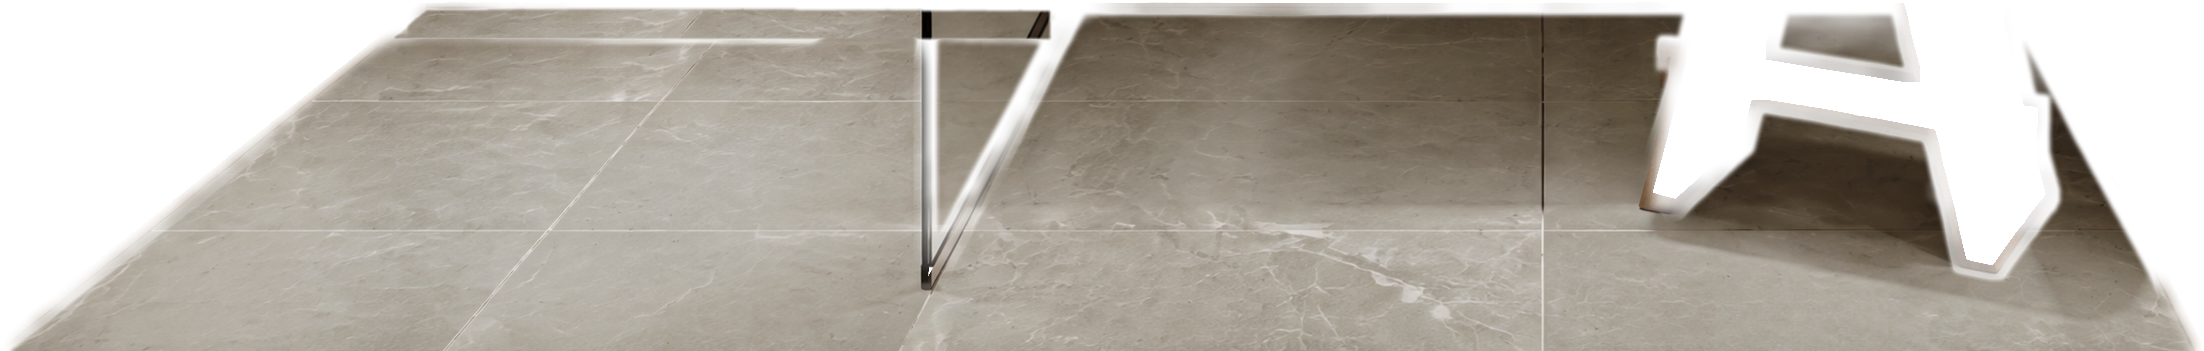
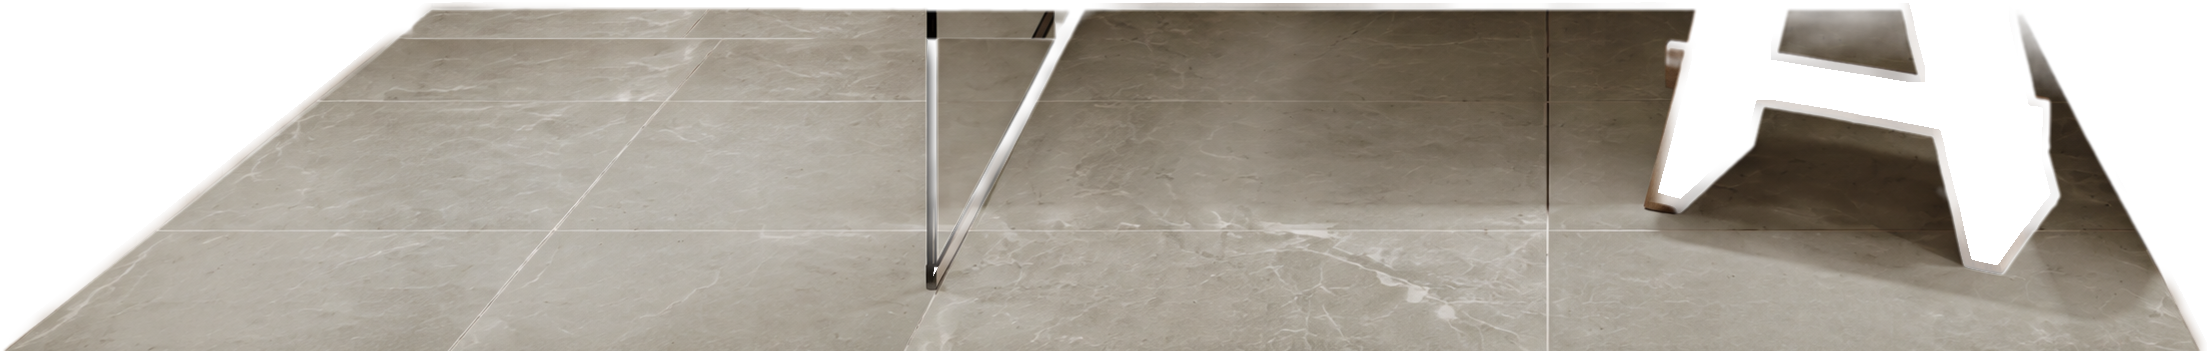
Dlažba až po stoličku, bez svetlého lemu
- vrstva dlažby siaha po okraj zeleného kľúča: pri stoličke mäkký okraj
  z rozdielu končil pár px pred ňou a na tmavej dlažbe presvitala pôvodná
  svetlá ako lem, pod sedadlom ako svetlejšie miesto
- PRAVIDLA, CLAUDE.md

diff --git a/demo/index.html b/demo/index.html
@@ -120,7 +120,7 @@
 
 </div>
 
-<script>/*DATA*/window.KUPELNA = {"sirka":3312,"vyska":2484,"povodny":"img/povodny.jpg","model":"gpt-image-2-5-flare-image-to-image","rozlisenie":"4K","kreditovZaObrazok":16,"kategorie":[{"id":"obklad","nazov":"Obklad stien","typ":"podklad","z":0,"moznosti":[{"id":"povodny","nazov":"Pôvodný obklad","kratko":"Pôvodný obklad","detail":"Svetlý kameň · podľa vizualizácie ST1","nahlad":"img/nahlad-obklad-povodny.jpg"},{"id":"obklad-calacatta","nazov":"Florim I CLASSICI Calacatta Gold","kratko":"Calacatta Gold","detail":"Florim I Classici · gres 1200 × 2400 mm","nahlad":"img/ref-obklad-calacatta-0.jpg","obrazok":"img/obklad-calacatta.jpg"},{"id":"obklad-graphit","nazov":"Florim STONE LIFE Graphit","kratko":"Stone Life Graphit","detail":"Florim Stone Life · gres 1200 × 2400 mm","nahlad":"img/ref-obklad-graphit-0.jpg","obrazok":"img/obklad-graphit.jpg"},{"id":"obklad-travertine","nazov":"Florim AUTHENTIC LUXE Gold Travertine","kratko":"Gold Travertine","detail":"Florim Authentic Luxe · gres 1200 × 2400 mm","nahlad":"img/ref-obklad-travertine-0.jpg","obrazok":"img/obklad-travertine.jpg"}]},{"id":"dlazba","nazov":"Dlažba","typ":"plocha","z":1,"moznosti":[{"id":"povodny","nazov":"Pôvodná dlažba","kratko":"Pôvodná dlažba","detail":"Svetlý kameň · podľa vizualizácie ST1","nahlad":"img/nahlad-dlazba-povodny.jpg","vrstvy":{"*":[{"src":"img/dlazba-povodny-0.png","x":104,"y":2133,"w":2214,"h":351}]}},{"id":"dlazba-graphite","nazov":"Florim STONE LIFE Graphite 600x600","kratko":"Stone Life Graphite","detail":"Florim Stone Life · mat 600 × 600 mm","nahlad":"img/ref-dlazba-graphite-0.jpg","vrstvy":{"*":[{"src":"img/dlazba-graphite-0.png","x":104,"y":2133,"w":2214,"h":351}]}},{"id":"dlazba-amani","nazov":"Florim TIMELESS Amani Grey 600x600","kratko":"Timeless Amani Grey","detail":"Florim Timeless · mat 600 × 600 mm","nahlad":"img/ref-dlazba-amani-0.jpg","vrstvy":{"*":[{"src":"img/dlazba-amani-0.png","x":114,"y":2133,"w":2204,"h":351}]}}]},{"id":"baterie","nazov":"Batérie","typ":"objekt","z":3,"moznosti":[{"id":"povodny","nazov":"Chróm (pôvodné)","kratko":"Chróm (pôvodné)","detail":"Hansgrohe chróm · podľa vizualizácie ST1","nahlad":"img/nahlad-baterie-povodny.jpg"},{"id":"baterie-black","nazov":"Hansgrohe Black matt (Pulsify S Showerpipe 260, Tecturis S 240 Fine, Ecostat Element)","kratko":"Black matt","detail":"Hansgrohe 24237670 · 73372670 · 13347670","nahlad":"img/ref-baterie-black-0.jpg","vrstvy":{"povodny":[{"src":"img/baterie-black--povodny-0.png","x":494,"y":395,"w":600,"h":1494},{"src":"img/baterie-black--povodny-1.png","x":1538,"y":1314,"w":235,"h":277},{"src":"img/baterie-black--povodny-2.png","x":2217,"y":1314,"w":500,"h":774},{"src":"img/baterie-black--povodny-3.png","x":1571,"y":1643,"w":169,"h":308},{"src":"img/baterie-black--povodny-4.png","x":2929,"y":1848,"w":202,"h":228}],"obklad-calacatta":[{"src":"img/baterie-black--obklad-calacatta-0.png","x":494,"y":395,"w":600,"h":1494},{"src":"img/baterie-black--obklad-calacatta-1.png","x":1538,"y":1314,"w":235,"h":277},{"src":"img/baterie-black--obklad-calacatta-2.png","x":2217,"y":1314,"w":500,"h":774},{"src":"img/baterie-black--obklad-calacatta-3.png","x":1571,"y":1643,"w":169,"h":308},{"src":"img/baterie-black--obklad-calacatta-4.png","x":2929,"y":1848,"w":202,"h":228}],"obklad-graphit":[{"src":"img/baterie-black--obklad-graphit-0.png","x":494,"y":395,"w":600,"h":1494},{"src":"img/baterie-black--obklad-graphit-1.png","x":1538,"y":1314,"w":235,"h":277},{"src":"img/baterie-black--obklad-graphit-2.png","x":2217,"y":1314,"w":500,"h":774},{"src":"img/baterie-black--obklad-graphit-3.png","x":1571,"y":1643,"w":169,"h":308},{"src":"img/baterie-black--obklad-graphit-4.png","x":2929,"y":1848,"w":202,"h":228}],"obklad-travertine":[{"src":"img/baterie-black--obklad-travertine-0.png","x":494,"y":395,"w":600,"h":1494},{"src":"img/baterie-black--obklad-travertine-1.png","x":1538,"y":1314,"w":235,"h":277},{"src":"img/baterie-black--obklad-travertine-2.png","x":2217,"y":1314,"w":500,"h":774},{"src":"img/baterie-black--obklad-travertine-3.png","x":1571,"y":1643,"w":169,"h":308},{"src":"img/baterie-black--obklad-travertine-4.png","x":2929,"y":1848,"w":202,"h":228}]}},{"id":"baterie-bronze","nazov":"Hansgrohe Brushed bronze (Pulsify S Showerpipe 260, Tecturis S 240 Fine, Ecostat Element)","kratko":"Brushed bronze","detail":"Hansgrohe 24237140 · 73372140 · 13347140","nahlad":"img/ref-baterie-bronze-0.jpg","vrstvy":{"povodny":[{"src":"img/baterie-bronze--povodny-0.png","x":494,"y":395,"w":600,"h":1494},{"src":"img/baterie-bronze--povodny-1.png","x":1538,"y":1314,"w":235,"h":277},{"src":"img/baterie-bronze--povodny-2.png","x":2217,"y":1314,"w":500,"h":774},{"src":"img/baterie-bronze--povodny-3.png","x":1571,"y":1643,"w":169,"h":308},{"src":"img/baterie-bronze--povodny-4.png","x":2929,"y":1848,"w":202,"h":228}],"obklad-calacatta":[{"src":"img/baterie-bronze--obklad-calacatta-0.png","x":494,"y":395,"w":600,"h":1494},{"src":"img/baterie-bronze--obklad-calacatta-1.png","x":1538,"y":1314,"w":235,"h":277},{"src":"img/baterie-bronze--obklad-calacatta-2.png","x":2217,"y":1314,"w":500,"h":774},{"src":"img/baterie-bronze--obklad-calacatta-3.png","x":1571,"y":1643,"w":169,"h":308},{"src":"img/baterie-bronze--obklad-calacatta-4.png","x":2929,"y":1848,"w":202,"h":228}],"obklad-graphit":[{"src":"img/baterie-bronze--obklad-graphit-0.png","x":494,"y":395,"w":600,"h":1494},{"src":"img/baterie-bronze--obklad-graphit-1.png","x":1538,"y":1314,"w":235,"h":277},{"src":"img/baterie-bronze--obklad-graphit-2.png","x":2217,"y":1314,"w":500,"h":774},{"src":"img/baterie-bronze--obklad-graphit-3.png","x":1571,"y":1643,"w":169,"h":308},{"src":"img/baterie-bronze--obklad-graphit-4.png","x":2929,"y":1848,"w":202,"h":228}],"obklad-travertine":[{"src":"img/baterie-bronze--obklad-travertine-0.png","x":494,"y":395,"w":600,"h":1494},{"src":"img/baterie-bronze--obklad-travertine-1.png","x":1538,"y":1314,"w":235,"h":277},{"src":"img/baterie-bronze--obklad-travertine-2.png","x":2217,"y":1314,"w":500,"h":774},{"src":"img/baterie-bronze--obklad-travertine-3.png","x":1571,"y":1643,"w":169,"h":308},{"src":"img/baterie-bronze--obklad-travertine-4.png","x":2929,"y":1848,"w":202,"h":228}]}}]},{"id":"umyvadlo","nazov":"Umývadlo","typ":"objekt","z":4,"moznosti":[{"id":"povodny","nazov":"Pôvodné obdĺžnikové","kratko":"Pôvodné obdĺžnikové","detail":"Na dosku · podľa vizualizácie ST1","nahlad":"img/nahlad-umyvadlo-povodny.jpg"},{"id":"umyvadlo-savoy","nazov":"Laufen Savoy 550x380 oválne","kratko":"Savoy oválne","detail":"Laufen H8129440001121 · 550 × 380 mm","nahlad":"img/ref-umyvadlo-savoy-0.jpg","vrstvy":{"povodny":[{"src":"img/umyvadlo-savoy--povodny-0.png","x":1322,"y":1364,"w":700,"h":376}],"obklad-calacatta":[{"src":"img/umyvadlo-savoy--obklad-calacatta-0.png","x":1322,"y":1364,"w":700,"h":376}],"obklad-graphit":[{"src":"img/umyvadlo-savoy--obklad-graphit-0.png","x":1322,"y":1364,"w":700,"h":376}],"obklad-travertine":[{"src":"img/umyvadlo-savoy--obklad-travertine-0.png","x":1322,"y":1364,"w":700,"h":376}]}},{"id":"umyvadlo-okruhle","nazov":"Laufen living SQ 380x380 okrúhle","kratko":"living SQ okrúhle","detail":"Laufen H8114350001121 · Ø 380 mm","nahlad":"img/ref-umyvadlo-okruhle-0.jpg","vrstvy":{"povodny":[{"src":"img/umyvadlo-okruhle--povodny-0.png","x":1322,"y":1364,"w":700,"h":376}],"obklad-calacatta":[{"src":"img/umyvadlo-okruhle--obklad-calacatta-0.png","x":1322,"y":1364,"w":700,"h":376}],"obklad-graphit":[{"src":"img/umyvadlo-okruhle--obklad-graphit-0.png","x":1322,"y":1364,"w":700,"h":376}],"obklad-travertine":[{"src":"img/umyvadlo-okruhle--obklad-travertine-0.png","x":1322,"y":1364,"w":700,"h":376}]}}]},{"id":"zlab","nazov":"Sprchový žľab","typ":"objekt","z":2,"moznosti":[{"id":"povodny","nazov":"FlowLine Zero Nerez","kratko":"FlowLine Zero Nerez","detail":"Kaldewei FlowLine Zero · nerez","nahlad":"img/nahlad-zlab-povodny.jpg","vrstvy":{"*":[{"src":"img/zlab-povodny-0.png","x":507,"y":2139,"w":661,"h":38}]}},{"id":"zlab-grafit","nazov":"Kaldewei FlowLine Zero Grafit","kratko":"FlowLine Zero Grafit","detail":"Kaldewei FlowLine Zero · grafit","nahlad":"img/ref-zlab-grafit-0.jpg","vrstvy":{"*":[{"src":"img/zlab-grafit-0.png","x":494,"y":2130,"w":676,"h":48}]}}]}]};/*/DATA*/</script>
+<script>/*DATA*/window.KUPELNA = {"sirka":3312,"vyska":2484,"povodny":"img/povodny.jpg","model":"gpt-image-2-5-flare-image-to-image","rozlisenie":"4K","kreditovZaObrazok":16,"kategorie":[{"id":"obklad","nazov":"Obklad stien","typ":"podklad","z":0,"moznosti":[{"id":"povodny","nazov":"Pôvodný obklad","kratko":"Pôvodný obklad","detail":"Svetlý kameň · podľa vizualizácie ST1","nahlad":"img/nahlad-obklad-povodny.jpg"},{"id":"obklad-calacatta","nazov":"Florim I CLASSICI Calacatta Gold","kratko":"Calacatta Gold","detail":"Florim I Classici · gres 1200 × 2400 mm","nahlad":"img/ref-obklad-calacatta-0.jpg","obrazok":"img/obklad-calacatta.jpg"},{"id":"obklad-graphit","nazov":"Florim STONE LIFE Graphit","kratko":"Stone Life Graphit","detail":"Florim Stone Life · gres 1200 × 2400 mm","nahlad":"img/ref-obklad-graphit-0.jpg","obrazok":"img/obklad-graphit.jpg"},{"id":"obklad-travertine","nazov":"Florim AUTHENTIC LUXE Gold Travertine","kratko":"Gold Travertine","detail":"Florim Authentic Luxe · gres 1200 × 2400 mm","nahlad":"img/ref-obklad-travertine-0.jpg","obrazok":"img/obklad-travertine.jpg"}]},{"id":"dlazba","nazov":"Dlažba","typ":"plocha","z":1,"moznosti":[{"id":"povodny","nazov":"Pôvodná dlažba","kratko":"Pôvodná dlažba","detail":"Svetlý kameň · podľa vizualizácie ST1","nahlad":"img/nahlad-dlazba-povodny.jpg","vrstvy":{"*":[{"src":"img/dlazba-povodny-0.png","x":104,"y":2133,"w":2214,"h":351}]}},{"id":"dlazba-graphite","nazov":"Florim STONE LIFE Graphite 600x600","kratko":"Stone Life Graphite","detail":"Florim Stone Life · mat 600 × 600 mm","nahlad":"img/ref-dlazba-graphite-0.jpg","vrstvy":{"*":[{"src":"img/dlazba-graphite-0.png","x":104,"y":2133,"w":2214,"h":351}]}},{"id":"dlazba-amani","nazov":"Florim TIMELESS Amani Grey 600x600","kratko":"Timeless Amani Grey","detail":"Florim Timeless · mat 600 × 600 mm","nahlad":"img/ref-dlazba-amani-0.jpg","vrstvy":{"*":[{"src":"img/dlazba-amani-0.png","x":109,"y":2133,"w":2209,"h":351}]}}]},{"id":"baterie","nazov":"Batérie","typ":"objekt","z":3,"moznosti":[{"id":"povodny","nazov":"Chróm (pôvodné)","kratko":"Chróm (pôvodné)","detail":"Hansgrohe chróm · podľa vizualizácie ST1","nahlad":"img/nahlad-baterie-povodny.jpg"},{"id":"baterie-black","nazov":"Hansgrohe Black matt (Pulsify S Showerpipe 260, Tecturis S 240 Fine, Ecostat Element)","kratko":"Black matt","detail":"Hansgrohe 24237670 · 73372670 · 13347670","nahlad":"img/ref-baterie-black-0.jpg","vrstvy":{"povodny":[{"src":"img/baterie-black--povodny-0.png","x":494,"y":395,"w":600,"h":1494},{"src":"img/baterie-black--povodny-1.png","x":1538,"y":1314,"w":235,"h":277},{"src":"img/baterie-black--povodny-2.png","x":2217,"y":1314,"w":500,"h":774},{"src":"img/baterie-black--povodny-3.png","x":1571,"y":1643,"w":169,"h":308},{"src":"img/baterie-black--povodny-4.png","x":2929,"y":1848,"w":202,"h":228}],"obklad-calacatta":[{"src":"img/baterie-black--obklad-calacatta-0.png","x":494,"y":395,"w":600,"h":1494},{"src":"img/baterie-black--obklad-calacatta-1.png","x":1538,"y":1314,"w":235,"h":277},{"src":"img/baterie-black--obklad-calacatta-2.png","x":2217,"y":1314,"w":500,"h":774},{"src":"img/baterie-black--obklad-calacatta-3.png","x":1571,"y":1643,"w":169,"h":308},{"src":"img/baterie-black--obklad-calacatta-4.png","x":2929,"y":1848,"w":202,"h":228}],"obklad-graphit":[{"src":"img/baterie-black--obklad-graphit-0.png","x":494,"y":395,"w":600,"h":1494},{"src":"img/baterie-black--obklad-graphit-1.png","x":1538,"y":1314,"w":235,"h":277},{"src":"img/baterie-black--obklad-graphit-2.png","x":2217,"y":1314,"w":500,"h":774},{"src":"img/baterie-black--obklad-graphit-3.png","x":1571,"y":1643,"w":169,"h":308},{"src":"img/baterie-black--obklad-graphit-4.png","x":2929,"y":1848,"w":202,"h":228}],"obklad-travertine":[{"src":"img/baterie-black--obklad-travertine-0.png","x":494,"y":395,"w":600,"h":1494},{"src":"img/baterie-black--obklad-travertine-1.png","x":1538,"y":1314,"w":235,"h":277},{"src":"img/baterie-black--obklad-travertine-2.png","x":2217,"y":1314,"w":500,"h":774},{"src":"img/baterie-black--obklad-travertine-3.png","x":1571,"y":1643,"w":169,"h":308},{"src":"img/baterie-black--obklad-travertine-4.png","x":2929,"y":1848,"w":202,"h":228}]}},{"id":"baterie-bronze","nazov":"Hansgrohe Brushed bronze (Pulsify S Showerpipe 260, Tecturis S 240 Fine, Ecostat Element)","kratko":"Brushed bronze","detail":"Hansgrohe 24237140 · 73372140 · 13347140","nahlad":"img/ref-baterie-bronze-0.jpg","vrstvy":{"povodny":[{"src":"img/baterie-bronze--povodny-0.png","x":494,"y":395,"w":600,"h":1494},{"src":"img/baterie-bronze--povodny-1.png","x":1538,"y":1314,"w":235,"h":277},{"src":"img/baterie-bronze--povodny-2.png","x":2217,"y":1314,"w":500,"h":774},{"src":"img/baterie-bronze--povodny-3.png","x":1571,"y":1643,"w":169,"h":308},{"src":"img/baterie-bronze--povodny-4.png","x":2929,"y":1848,"w":202,"h":228}],"obklad-calacatta":[{"src":"img/baterie-bronze--obklad-calacatta-0.png","x":494,"y":395,"w":600,"h":1494},{"src":"img/baterie-bronze--obklad-calacatta-1.png","x":1538,"y":1314,"w":235,"h":277},{"src":"img/baterie-bronze--obklad-calacatta-2.png","x":2217,"y":1314,"w":500,"h":774},{"src":"img/baterie-bronze--obklad-calacatta-3.png","x":1571,"y":1643,"w":169,"h":308},{"src":"img/baterie-bronze--obklad-calacatta-4.png","x":2929,"y":1848,"w":202,"h":228}],"obklad-graphit":[{"src":"img/baterie-bronze--obklad-graphit-0.png","x":494,"y":395,"w":600,"h":1494},{"src":"img/baterie-bronze--obklad-graphit-1.png","x":1538,"y":1314,"w":235,"h":277},{"src":"img/baterie-bronze--obklad-graphit-2.png","x":2217,"y":1314,"w":500,"h":774},{"src":"img/baterie-bronze--obklad-graphit-3.png","x":1571,"y":1643,"w":169,"h":308},{"src":"img/baterie-bronze--obklad-graphit-4.png","x":2929,"y":1848,"w":202,"h":228}],"obklad-travertine":[{"src":"img/baterie-bronze--obklad-travertine-0.png","x":494,"y":395,"w":600,"h":1494},{"src":"img/baterie-bronze--obklad-travertine-1.png","x":1538,"y":1314,"w":235,"h":277},{"src":"img/baterie-bronze--obklad-travertine-2.png","x":2217,"y":1314,"w":500,"h":774},{"src":"img/baterie-bronze--obklad-travertine-3.png","x":1571,"y":1643,"w":169,"h":308},{"src":"img/baterie-bronze--obklad-travertine-4.png","x":2929,"y":1848,"w":202,"h":228}]}}]},{"id":"umyvadlo","nazov":"Umývadlo","typ":"objekt","z":4,"moznosti":[{"id":"povodny","nazov":"Pôvodné obdĺžnikové","kratko":"Pôvodné obdĺžnikové","detail":"Na dosku · podľa vizualizácie ST1","nahlad":"img/nahlad-umyvadlo-povodny.jpg"},{"id":"umyvadlo-savoy","nazov":"Laufen Savoy 550x380 oválne","kratko":"Savoy oválne","detail":"Laufen H8129440001121 · 550 × 380 mm","nahlad":"img/ref-umyvadlo-savoy-0.jpg","vrstvy":{"povodny":[{"src":"img/umyvadlo-savoy--povodny-0.png","x":1322,"y":1364,"w":700,"h":376}],"obklad-calacatta":[{"src":"img/umyvadlo-savoy--obklad-calacatta-0.png","x":1322,"y":1364,"w":700,"h":376}],"obklad-graphit":[{"src":"img/umyvadlo-savoy--obklad-graphit-0.png","x":1322,"y":1364,"w":700,"h":376}],"obklad-travertine":[{"src":"img/umyvadlo-savoy--obklad-travertine-0.png","x":1322,"y":1364,"w":700,"h":376}]}},{"id":"umyvadlo-okruhle","nazov":"Laufen living SQ 380x380 okrúhle","kratko":"living SQ okrúhle","detail":"Laufen H8114350001121 · Ø 380 mm","nahlad":"img/ref-umyvadlo-okruhle-0.jpg","vrstvy":{"povodny":[{"src":"img/umyvadlo-okruhle--povodny-0.png","x":1322,"y":1364,"w":700,"h":376}],"obklad-calacatta":[{"src":"img/umyvadlo-okruhle--obklad-calacatta-0.png","x":1322,"y":1364,"w":700,"h":376}],"obklad-graphit":[{"src":"img/umyvadlo-okruhle--obklad-graphit-0.png","x":1322,"y":1364,"w":700,"h":376}],"obklad-travertine":[{"src":"img/umyvadlo-okruhle--obklad-travertine-0.png","x":1322,"y":1364,"w":700,"h":376}]}}]},{"id":"zlab","nazov":"Sprchový žľab","typ":"objekt","z":2,"moznosti":[{"id":"povodny","nazov":"FlowLine Zero Nerez","kratko":"FlowLine Zero Nerez","detail":"Kaldewei FlowLine Zero · nerez","nahlad":"img/nahlad-zlab-povodny.jpg","vrstvy":{"*":[{"src":"img/zlab-povodny-0.png","x":507,"y":2139,"w":661,"h":38}]}},{"id":"zlab-grafit","nazov":"Kaldewei FlowLine Zero Grafit","kratko":"FlowLine Zero Grafit","detail":"Kaldewei FlowLine Zero · grafit","nahlad":"img/ref-zlab-grafit-0.jpg","vrstvy":{"*":[{"src":"img/zlab-grafit-0.png","x":494,"y":2130,"w":676,"h":48}]}}]}]};/*/DATA*/</script>
 <script>
 (function () {
   const D = window.KUPELNA;

diff --git a/CLAUDE.md b/CLAUDE.md
@@ -47,7 +47,7 @@ Pred každou generáciou a po nej postupovať podľa kontrolného zoznamu a zozn
 - Obklad nesmie meniť policu – Graphit raz „zapustil“ umývadlo do police a na ostatných umývadlách potom ostal obdĺžnikový obrys; prompt obkladov to teraz výslovne zakazuje. Pri problémoch s jedným obkladom stačí `-Ids obklad-x,*@obklad-x -Force`.
 - Bronzové batérie sú prefarbené čierne (`zVariantu`). Sprcha v ST1 je Pulsify S 260 chróm → čierna/bronz sa iba prefarbí. K batériám patrí aj sifón pod policou a krytka prepadu vane (vlastné obdĺžniky v `roi`), v katalógu nie sú, farba sa len zjednocuje s batériami: `baterie-black` = prefarbenie sifónu a prepadu na pomocnom `baterie-black-zaklad` (pôvodná generácia čiernych batérií, `pomocne` môžu mať `referencie`). Umývadlá majú v prompte rozmer voči pôvodnému Laufen living SQ 600×340 mm (bez toho majú všetky rovnakú šírku ako pôvodné).
 - `prazdne-baterie` (výsledok z 2026-10-13) má ešte chrómový sifón a prepad – pokus pregenerovať ho aj bez nich zlyhal (model nechal umývadlovú batériu aj sifón a zmazal len prepad), nepregenerovávať. Chrómová vzpera sklenenej zásteny ostáva zámerne (patrí k sklu, nie k Hansgrohe). Známe drobnosti: bronzový sifón je o niečo tenší ako čierny; pri čiernom vaňovom termostate na Graphite ostávajú slabé svetlé škvrny pri rozetách.
-- Dlažba: každá generácia dlažby prekreslí žľab (dlhší, cez pás podlahy pri stene) a grafitový žľab je širší ako pôvodný → `bezObjektov: ["zlab"]` + `pas` žľabu: vo vrstvách dlažby je pás od steny po prednú hranu žľabu celý dlažba (riadky spod neho posunuté nahor), každý žľab má vrstvu len s kovom (rozdiel voči podkladu s pásom vyplneným dlažbou), aj pôvodný (vrstva možnosti „pôvodný“). Maska dlažby len z rozdielu voči podkladu vynechala tieň pod policou (stará a nová dlažba tam majú podobný tón, presvitala pôvodná) → `kluc: "kluc-dlazba"` (podlaha natretá na zeleno) dáva vnútro plochy, rozdiel len okraje.
+- Dlažba: každá generácia dlažby prekreslí žľab (dlhší, cez pás podlahy pri stene) a grafitový žľab je širší ako pôvodný → `bezObjektov: ["zlab"]` + `pas` žľabu: vo vrstvách dlažby je pás od steny po prednú hranu žľabu celý dlažba (riadky spod neho posunuté nahor), každý žľab má vrstvu len s kovom (rozdiel voči podkladu s pásom vyplneným dlažbou), aj pôvodný (vrstva možnosti „pôvodný“). Maska dlažby len z rozdielu voči podkladu vynechala tieň pod policou (stará a nová dlažba tam majú podobný tón, presvitala pôvodná) → `kluc: "kluc-dlazba"` (podlaha natretá na zeleno) dáva vnútro plochy, rozdiel len okraje. Vrstva dlažby siaha aj po okraj kľúča: pri stoličke (v dlažbe aj v podklade rovnaká) mäkký okraj z rozdielu končil pár px pred ňou a na tmavej dlažbe presvitala pôvodná svetlá ako lem.
 - Doplnky na polici (váza, difuzér, mydlo, podnos) každá generácia obkladu prekreslí a zdeformuje → `doplnky` vo `varianty.json`: AI ich z každého obkladu len odstráni (`prazdne-doplnky@<obklad>`) a `zostav` vloží pôvodné (rozdiel voči `prazdne-doplnky`, obrysy skla z `kluc-doplnky`), prefarbené pixel po pixeli z prázdneho podkladu na prázdny obklad; umývadlá (`bezDoplnkov`) túto oblasť nechajú pozadiu. Vloženie + dočistenie okolia cez AI (ako pri batériách) tu nefungovalo: dokresľovala druhý podnos a vetvičku.
 - Umývadlová batéria má smerovať výtokom k divákovi (ako pôvodná chrómová); podľa produktovej fotky ju model otočí bokom. `baterie-black` = otočenie na pomocnom `baterie-black-sifon` (prefarbený sifón) ← `baterie-black-zaklad`. `stlpec` pri umývadle vyreže batériu nad okrajom misy (misa je navrchu, batéria za ňou).
 - Veľkosť umývadlovej batérie = pôvodná: model nakreslil Tecturis S 240 Fine ~1,5× väčšiu (výška aj hrúbka tela) → `mierka` pri `baterie-black`/`baterie-bronze` ju pri načítaní variantu aj `@obklad` výsledkov zmenší 0,67× okolo bodu na polici a posunie na miesto pôvodnej (`zostav` aj vstupy `generuj`, bez generovania). Uvoľnená stena = `prazdne-baterie` prefarbené na stenu obkladu okolo (podklad obkladu má pôvodnú batériu o pár px inde); od riadku `okraj` stojí pred batériou zadná hrana misy (zelený kľúč umývadla je ~13 px vyššie). `@obklad` výsledky vygenerované zo vstupu, ktorý už mal zmenšenú batériu, majú vo `vysledky.json` `zmensene: true` (zapíše `generuj`) a `zostav` ich druhýkrát nezmenšuje (inak ostane svetlý obrys batérie s malou čiernou škvrnou). Namiesto toho `Set-ScaledCleanup`: batéria sa vezme zo vstupu (správna veľkosť, okraje prefarbené na obklad) a kde ju model nakreslil väčšiu (Graphit, ~1,2×), dá sa uvoľnená stena.

diff --git a/PRAVIDLA.md b/PRAVIDLA.md
@@ -89,6 +89,7 @@ Porovnať výsledok s pôvodnou vizualizáciou vo výrezoch 1:1, nie v celom obr
 | **Obklady v 4K zrnité, „horšie ako prvá 1K verzia“** (kolega 14. 10.) | model v 4K kreslil kameň ako reliéf so svetlými zrnkami, travertín ako vystúpené vlny; referenčné fotky majú len 640 px; v 1K na reliéf nemal rozlíšenie | prompt rovnej hladkej platne + obklady a všetko na nich v 2K (kolega vybral 15. 10. z testu 1K / 4K / 4K a 2K s novým promptom); povrch obkladu je v kontrolnom zozname |
 | **Umývadlová batéria na Calacatte, Graphite a Travertine: svetlý obrys s rozmazanou čiernou škvrnou** (používateľ 15. 10., po pregenerovaní obkladov v 2K) | vstup `@obklad` už mal zmenšenú batériu (`mierka`), `zostav` ju zmenšil druhýkrát; kontrola po zostavení pozerala celý výrez batérií, kde je umývadlová batéria malá | `zmensene: true` vo `vysledky.json` → bez druhého zmenšenia; kontrola v kroku 3 aj s `--oblast bateria-umyvadlo` |
 | **Dlažba Stone Life Graphite nie je totožná s produktom** (používateľ 15. 10.): svetlejšia, do olivova, zrnitý reliéf | kie 4K, rovnaká príčina ako pri obkladoch; referencia má len 407 px | dlažba v 2K, prompt rovnej hladkej dlaždice a tón produktu slovami |
+| Svetlý lem okolo nôh stoličky na tmavej dlažbe, svetlejšie miesto pod sedadlom (používateľ 15. 10.) | stolička je v dlažbe aj v podklade rovnaká, mäkký okraj masky z rozdielu sa preto stratil pár px pred ňou a presvitala pôvodná svetlá dlažba z obrázka obkladu | vrstva dlažby až po okraj zeleného kľúča (`kluc-dlazba`); kontrola `--oblast stolicka` na tmavej dlažbe |
 | Batéria na Graphite väčšia ako na ostatných obkladoch, svetlá páka | model pri dočistení batériu zväčšil (~1,2×) a páku prekreslil; jadro sa obnovuje len vnútri, tenká páka doň nepatrí | `Set-ScaledCleanup`: batéria zo vstupu generácie, zväčšený okraj nahradí uvoľnená stena |
 | Zvyšok starej misy vedľa Savoy (Travertine), schodík na polici (Graphite) | nie výrez doplnkov (pôvodný odhad), ale samotná AI: úzky pruh starej misy vedľa širokej Savoy nechala ako dizajn, pri tmavej stene prefarbila zadný okraj police do teplej | `pozadieZ`: miesto po starej mise mimo Savoy z výsledku užšieho okrúhleho umývadla na tom istom obklade; `polica` už od zadnej hrany police |
 
@@ -115,7 +116,6 @@ Poznámky k zrnitosti obkladov (pre prípad, že sa vráti): zrnitosť bola už 
 - Pravý okraj Savoy na Graphite a Travertine má pri zväčšení tenký svetlejší lem (AI ju na obklade nakreslila o pár px širšiu, jadro sa obnovuje len vnútri).
 - Okolo batérie na pôvodnom obklade je slabo svetlejší obdĺžnik (AI prekreslila stenu, vrstva ju čiastočne berie).
 - V okrúhlom umývadle je pod batériou na vnútornej stene misy svetlejší pás. Je tam aj s pôvodnou chrómovou batériou, nakreslil ho model pri generovaní umývadla.
-- Pri dlažbe Stone Life Graphite na Calacatte a Graphite má stolička pri nohách tenký svetlejší lem (vrstva dlažby nesie stoličku z generácie dlažby na pôvodnom obklade).
 - Pri rozete sifónu na Graphite a Travertine slabý svetlý oblúk starej chrómovej rozety (viditeľný až pri ~3× zväčšení). Na Graphite pri 4× zväčšení tenký svetlý prúžok vľavo od tela umývadlovej batérie.
 
 ## 9. Prostredie
